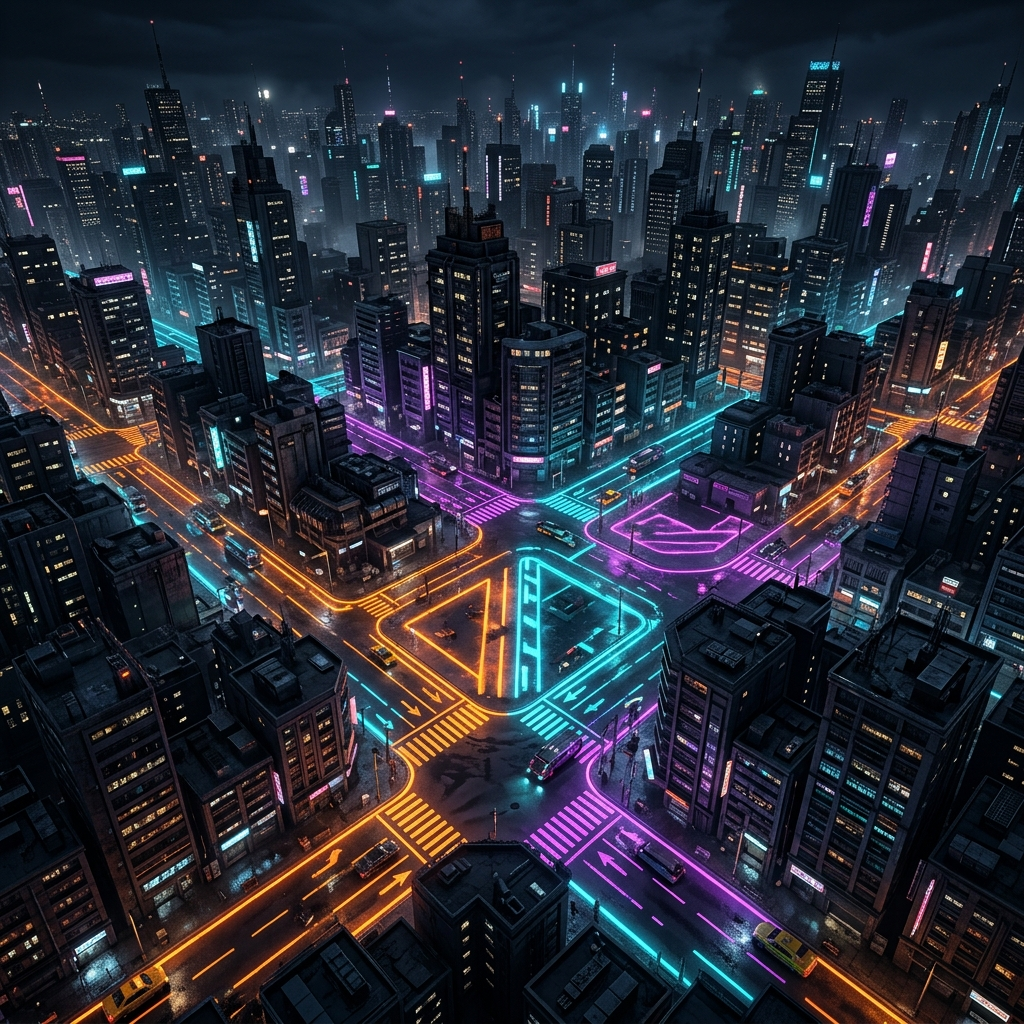
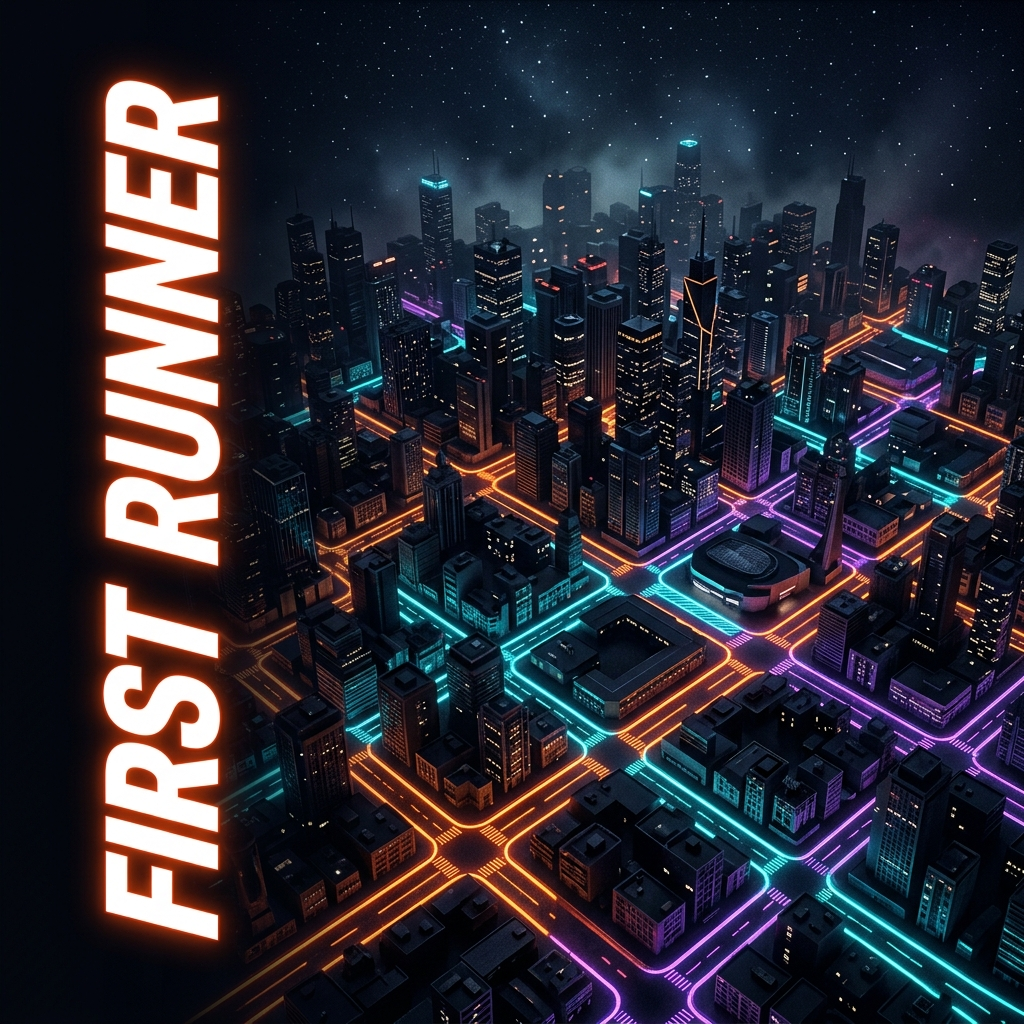
Imagem aprovada do Google Labs com titulo embutido + HTML minimalista

diff --git a/index.html b/index.html
@@ -17,18 +17,13 @@
     <script src="https://cdn.tailwindcss.com"></script>
     <script src="https://unpkg.com/lucide@latest"></script>
     <style>
-        @import url('https://fonts.googleapis.com/css2?family=Syncopate:wght@700&family=Inter:wght@400;500;600;700&display=swap');
+        @import url('https://fonts.googleapis.com/css2?family=Inter:wght@400;500;600;700;900&display=swap');
 
         body {
             font-family: 'Inter', sans-serif;
             margin: 0;
             overflow-x: hidden;
             background-color: #050505;
-        }
-
-        .font-syncopate {
-            font-family: 'Syncopate', sans-serif;
-            font-weight: 700;
         }
 
         .bg-layer {
@@ -44,43 +39,26 @@
             z-index: 0;
         }
 
-        .overlay {
-            position: fixed;
-            inset: 0;
-            /* Gradient from left to right to make the text pop while keeping the right side vibrant */
-            background: linear-gradient(to right, rgba(10,12,20,0.95) 0%, rgba(10,12,20,0.5) 50%, rgba(10,12,20,0.05) 100%);
-            z-index: 1;
-            pointer-events: none;
-        }
-
-        .glass-panel {
-            background: rgba(30, 32, 45, 0.4);
-            backdrop-filter: blur(16px);
-            -webkit-backdrop-filter: blur(16px);
-            border: 1px solid rgba(255, 255, 255, 0.1);
-            box-shadow: 0 8px 32px 0 rgba(0, 0, 0, 0.5);
-        }
-
-        .glass-button {
-            background: rgba(255, 255, 255, 0.05);
-            border: 1px solid rgba(255, 255, 255, 0.2);
+        .btn-neon {
+            background: rgba(0,0,0,0.6);
+            border: 2px solid #f97316;
+            box-shadow: 0 0 15px rgba(249, 115, 22, 0.4), inset 0 0 10px rgba(249, 115, 22, 0.15);
+            backdrop-filter: blur(8px);
             transition: all 0.3s ease;
         }
         
-        .glass-button:hover {
-            background: rgba(255, 255, 255, 0.15);
-            border-color: rgba(255, 255, 255, 0.5);
-            box-shadow: 0 0 20px rgba(255, 255, 255, 0.2);
+        .btn-neon:hover {
+            background: #f97316;
+            color: #000;
+            box-shadow: 0 0 30px rgba(249, 115, 22, 0.8), inset 0 0 15px rgba(249, 115, 22, 0.4);
+            transform: scale(1.03);
         }
-        
-        /* Neon map path animation */
-        .path-line {
-            stroke-dasharray: 200;
-            stroke-dashoffset: 200;
-            animation: drawPath 4s forwards ease-out;
-        }
-        @keyframes drawPath {
-            to { stroke-dashoffset: 0; }
+
+        .glass-nav {
+            background: rgba(8, 11, 18, 0.85);
+            backdrop-filter: blur(16px);
+            -webkit-backdrop-filter: blur(16px);
+            border: 1px solid rgba(255, 255, 255, 0.05);
         }
     </style>
 
@@ -89,110 +67,46 @@
     <meta name="theme-color" content="#000000">
 </head>
 
-<body class="relative w-full text-white font-sans overflow-x-hidden selection:bg-cyan-500/30 antialiased h-screen">
+<body class="relative w-full text-white font-sans overflow-x-hidden selection:bg-orange-500/30 antialiased h-screen">
 
-    <!-- CAMADA 1: FUNDO ESTÁTICO (IMAGEM) -->
+    <!-- FUNDO: IMAGEM GERADA -->
     <div class="bg-layer"></div>
-    <div class="overlay"></div>
 
-    <!-- CAMADA 2: INTERFACE DO USUÁRIO -->
-    <div class="relative z-10 flex flex-col h-screen w-full max-w-[1600px] mx-auto px-6 md:px-12 py-8 pointer-events-none">
+    <!-- INTERFACE -->
+    <div class="relative z-10 flex flex-col h-screen w-full">
         
-        <!-- NAVEGAÇÃO SUPERIOR (PILL SHAPE) -->
-        <nav class="glass-panel rounded-full px-6 py-4 flex items-center justify-between w-full max-w-5xl mx-auto pointer-events-auto">
-            
-            <!-- Left Icons -->
-            <div class="flex items-center gap-3">
-                <button class="w-10 h-10 rounded-xl bg-cyan-500/20 border border-cyan-500/50 flex items-center justify-center shadow-[0_0_15px_rgba(6,182,212,0.4)] text-cyan-400 hover:bg-cyan-500/40 transition-colors">
-                    <i data-lucide="home" class="w-5 h-5 fill-cyan-400"></i>
-                </button>
-                <button class="w-10 h-10 rounded-xl glass-button flex items-center justify-center text-white/70 hover:text-white">
-                    <i data-lucide="route" class="w-5 h-5"></i>
-                </button>
-                <button class="w-10 h-10 rounded-xl glass-button flex items-center justify-center text-white/70 hover:text-white">
-                    <i data-lucide="settings" class="w-5 h-5"></i>
-                </button>
+        <!-- NAVBAR MINIMALISTA -->
+        <nav class="fixed top-4 left-4 right-4 lg:left-8 lg:right-8 glass-nav rounded-[20px] px-8 py-5 flex items-center justify-between z-50">
+            <a href="index.html" class="flex items-center gap-4 cursor-pointer hover:opacity-80 transition-opacity">
+                <svg class="w-8 h-8 drop-shadow-[0_0_12px_rgba(255,255,255,0.3)]" viewBox="0 0 40 40" fill="none">
+                    <path d="M6 6H34V14H16V20H28V27H16V36H6V6Z" fill="white"/>
+                </svg>
+                <div class="flex flex-col leading-[0.9] font-black tracking-widest text-white text-lg uppercase" translate="no">
+                    <span>FIRST</span>
+                    <span>RUNNER</span>
+                </div>
+            </a>
+
+            <div class="hidden lg:flex items-center gap-10">
+                <a href="index.html" class="text-[11px] font-black tracking-[0.15em] uppercase text-white drop-shadow-[0_0_12px_rgba(255,255,255,0.8)]">HOME</a>
+                <a href="como-funciona.html" class="text-[11px] font-black tracking-[0.15em] uppercase text-white/50 hover:text-white transition-colors">COMO FUNCIONA</a>
+                <a href="whitepaper.html" class="text-[11px] font-black tracking-[0.15em] uppercase text-white/50 hover:text-white transition-colors">WHITEPAPER</a>
+                <a href="early-access.html" class="text-[11px] font-black tracking-[0.15em] uppercase text-orange-500 hover:text-orange-400 drop-shadow-[0_0_8px_rgba(249,115,22,0.4)]">EARLY ACCESS</a>
             </div>
 
-            <!-- Center Links -->
-            <div class="hidden md:flex items-center gap-10 text-[11px] font-bold tracking-[0.2em] text-white/60">
-                <a href="#" class="text-white relative after:content-[''] after:absolute after:-bottom-2 after:left-0 after:w-full after:h-[2px] after:bg-cyan-400 after:shadow-[0_0_8px_rgba(6,182,212,0.8)]">HOME</a>
-                <a href="#" class="hover:text-white transition-colors">FEATURES</a>
-                <a href="#" class="hover:text-white transition-colors">COMMUNITY</a>
-                <a href="#" class="hover:text-white transition-colors">PROFILE</a>
+            <div class="flex items-center gap-4">
+                <button class="lg:hidden text-white p-2">
+                    <i data-lucide="menu" class="w-6 h-6"></i>
+                </button>
             </div>
-
-            <!-- Right Icon -->
-            <button class="w-10 h-10 rounded-full glass-button flex items-center justify-center text-white/70 hover:text-white">
-                <i data-lucide="user" class="w-5 h-5"></i>
-            </button>
         </nav>
 
-        <!-- MAIN CONTENT (HERO & CARDS) -->
-        <main class="flex-grow flex flex-col lg:flex-row items-center justify-between w-full mt-10 pb-10">
-            
-            <!-- LEFT HERO TEXT -->
-            <div class="flex flex-col items-start text-left max-w-2xl pointer-events-auto">
-                <h1 class="font-syncopate text-6xl md:text-8xl lg:text-[110px] leading-[0.9] text-white drop-shadow-2xl uppercase">
-                    FIRST<br>RUNNER
-                </h1>
-                <p class="mt-8 text-sm md:text-lg font-medium tracking-[0.2em] text-white/80 uppercase">
-                    Conquer your city. Paint your path.
-                </p>
-                <a href="early-access.html" class="mt-10 px-8 py-4 rounded-full glass-button text-xs md:text-sm font-bold tracking-[0.2em] uppercase text-white inline-flex items-center gap-3">
-                    JOIN THE CHASE
-                </a>
-            </div>
-
-            <!-- RIGHT PROGRESS CARD (Glassmorphism) -->
-            <div class="hidden lg:block w-[400px] glass-panel rounded-3xl p-6 pointer-events-auto mt-auto lg:mt-0 lg:mb-10 lg:mr-10 shadow-[0_20px_50px_rgba(0,0,0,0.5)] border border-white/10 relative overflow-hidden group">
-                <!-- Inner glow hover effect -->
-                <div class="absolute inset-0 bg-gradient-to-br from-cyan-500/0 to-purple-500/0 group-hover:from-cyan-500/10 group-hover:to-purple-500/10 transition-all duration-500 pointer-events-none"></div>
-                
-                <!-- Header -->
-                <div class="flex items-center gap-3 mb-6 relative z-10">
-                    <div class="w-8 h-8 rounded-full bg-gradient-to-r from-orange-400 to-purple-500 p-[2px]">
-                        <img src="https://api.dicebear.com/7.x/avataaars/svg?seed=Felix" class="w-full h-full rounded-full bg-black object-cover" alt="User Profile" />
-                    </div>
-                    <span class="text-sm font-medium tracking-wide text-white/90">User Progress</span>
-                </div>
-
-                <!-- Fake Map Container -->
-                <div class="w-full h-[180px] bg-[#0c0f1a]/80 rounded-xl mb-6 relative overflow-hidden border border-white/5">
-                    <!-- City Grid Pattern -->
-                    <div class="absolute inset-0 opacity-20" style="background-image: linear-gradient(rgba(255,255,255,0.1) 1px, transparent 1px), linear-gradient(90deg, rgba(255,255,255,0.1) 1px, transparent 1px); background-size: 20px 20px;"></div>
-                    
-                    <!-- Drawn Route SVG -->
-                    <svg class="absolute inset-0 w-full h-full" viewBox="0 0 400 180" fill="none">
-                        <!-- Orange Path -->
-                        <path d="M120,60 L140,110 L190,130 L220,80" stroke="#f97316" stroke-width="4" stroke-linecap="round" stroke-linejoin="round" class="drop-shadow-[0_0_8px_rgba(249,115,22,0.8)] path-line"/>
-                        <!-- Cyan Path -->
-                        <path d="M220,80 L280,60 L320,100 L270,120 Z" stroke="#06b6d4" stroke-width="4" stroke-linecap="round" stroke-linejoin="round" class="drop-shadow-[0_0_8px_rgba(6,182,212,0.8)] path-line" style="animation-delay: 0.5s"/>
-                        
-                        <!-- Nodes -->
-                        <circle cx="120" cy="60" r="6" fill="#050505" stroke="#f97316" stroke-width="3" />
-                        <circle cx="220" cy="80" r="8" fill="#06b6d4" stroke="#ffffff" stroke-width="2" class="drop-shadow-[0_0_10px_rgba(6,182,212,1)]" />
-                        <circle cx="320" cy="100" r="5" fill="#f97316" stroke="#f97316" stroke-width="2" class="drop-shadow-[0_0_8px_rgba(249,115,22,1)]" />
-                    </svg>
-
-                    <!-- Avatar Marker on Map -->
-                    <div class="absolute top-[48px] left-[108px] w-6 h-6 rounded-full border-2 border-white bg-black z-10 shadow-[0_0_15px_rgba(255,255,255,0.5)]">
-                        <img src="https://api.dicebear.com/7.x/avataaars/svg?seed=Felix" class="w-full h-full rounded-full" />
-                    </div>
-                </div>
-
-                <!-- Progress Bar -->
-                <div class="relative z-10">
-                    <div class="flex justify-between items-end mb-2">
-                        <span class="text-xs font-bold tracking-[0.15em] text-white uppercase">Territory Claimed: <span class="text-cyan-400">45%</span></span>
-                    </div>
-                    <div class="w-full h-2 bg-white/10 rounded-full overflow-hidden">
-                        <div class="h-full bg-gradient-to-r from-cyan-400 to-purple-500 w-[45%] rounded-full shadow-[0_0_10px_rgba(6,182,212,0.8)]"></div>
-                    </div>
-                </div>
-            </div>
-
-        </main>
+        <!-- CTA FLUTUANTE NA BASE -->
+        <div class="fixed bottom-12 left-0 right-0 flex justify-center z-20">
+            <a href="early-access.html" class="btn-neon px-12 py-4 rounded-full text-sm font-bold tracking-[0.2em] uppercase text-white">
+                JOIN THE RACE
+            </a>
+        </div>
     </div>
 
     <script>
